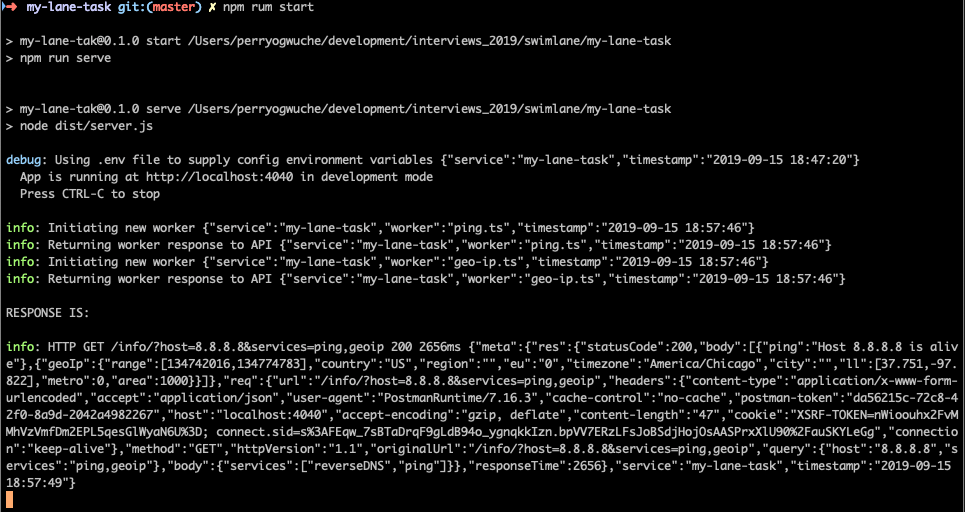
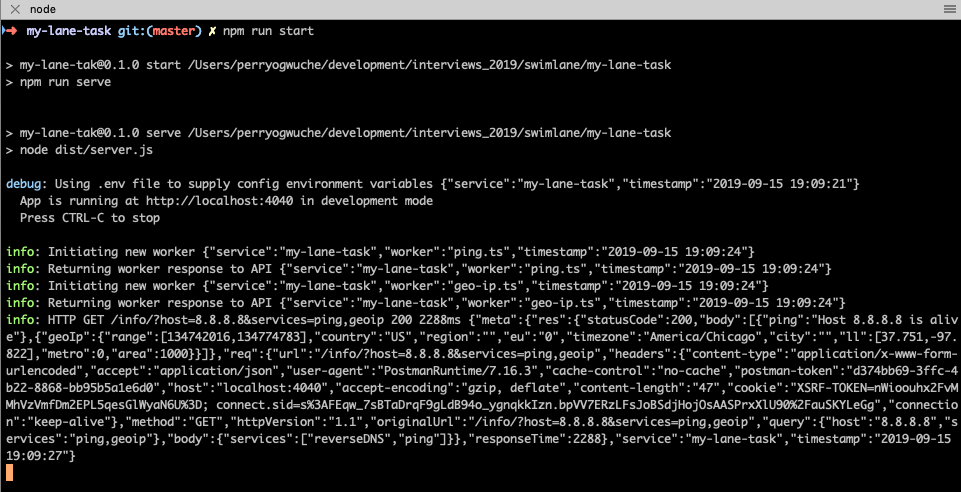
updated logging image

Changed region(s): [[0.0, 0.0, 1.0, 1.0]]

diff --git a/src/api/index.ts b/src/api/index.ts
@@ -26,9 +26,6 @@ export const getServices = (req: Request, res: Response) => {
 
     return bbPromise.map(workerResults, (result) => { return result; })
         .then((response) => {
-            console.log();
-            console.log(`RESPONSE IS: `);
-            console.log();
             return res.json(response);
         });
 };
